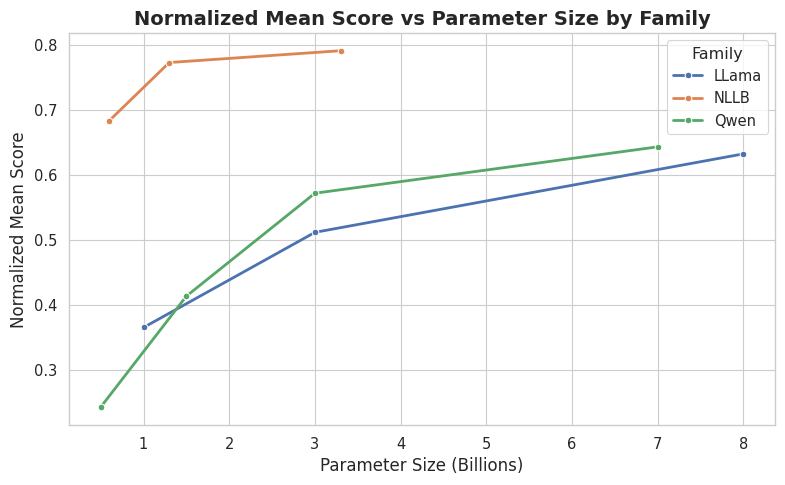
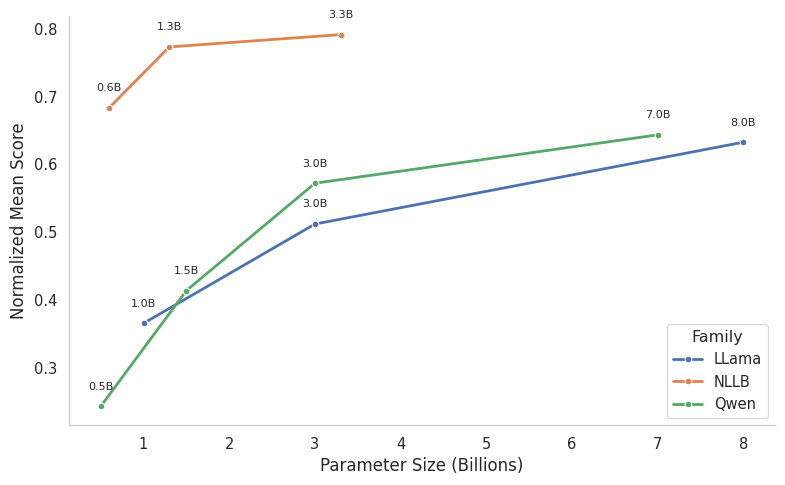
add sorting based on performance for topk graph and remove grid for family graph

diff --git a/plotting.py b/plotting.py
@@ -60,15 +60,45 @@ def create_plot_topk_results(df_long: pd.DataFrame, top_K: int = 5):
         ax = axes[i]
         df_metric = df_long.loc[df_long['Metric'] == metric]
         sns.set_theme(style="whitegrid", context="paper", font_scale=1.2)
-        # Calculate mean score per language
+
+        # Step 1: Top-K filtering
+        df_metric = df_metric.sort_values(['Language', 'Score'], ascending=[True, False])
+        df_metric = df_metric.groupby('Language', group_keys=False).head(top_K)
+
+        # Step 2: Determine order by average score
+        order = df_metric.groupby("Language")["Score"].mean().sort_values(ascending=False).index
+
+        # Step 3: Apply categorical ordering
+        print(order)
+        df_metric['Language'] = pd.Categorical(df_metric['Language'], categories=order, ordered=True)
+        df_metric = df_metric.sort_values('Language')
+
+        # Step 4: Compute and apply the same ordering to mean line
         mean_scores = df_metric.groupby('Language')['Score'].mean().reset_index()
         mean_scores['Model'] = 'Language Mean'
+        mean_scores['Language'] = pd.Categorical(mean_scores['Language'], categories=order, ordered=True)
+        mean_scores = mean_scores.sort_values('Language')
 
         # Plot the mean as a dotted black line
-        sns.lineplot(data=mean_scores, x='Language', y='Score', label='mean', ax=ax, linestyle='--', color='black', linewidth=1.2)
+        sns.lineplot(
+            data=mean_scores, 
+            x='Language', 
+            y='Score', 
+            label='mean', 
+            ax=ax, 
+            linestyle='--', 
+            color='black', 
+            linewidth=1.2)
         
-        df_metric = df_metric.sort_values(['Language', 'Score'], ascending=[True, False]).groupby('Language', group_keys=False).head(top_K)
-        sns.lineplot(data=df_metric, x='Language', y='Score', hue='Model', marker='o', ax=ax, linewidth=1.5)
+        sns.lineplot(
+            data=df_metric, 
+            x='Language', 
+            y='Score', 
+            hue='Model', 
+            marker='o', 
+            ax=ax, 
+            linewidth=1.5, 
+            )
         ax.set_xlabel("")
         ax.set_ylabel("")
         ax.set_title(metric, fontsize=13, weight='bold')
@@ -92,7 +122,7 @@ def create_plot_topk_results(df_long: pd.DataFrame, top_K: int = 5):
     # Shared x and y labels
     fig.supxlabel("Language", fontsize=12, y=0.05)
     fig.supylabel("Score", fontsize=12, x=0.01)
-    plt.suptitle(f"Top {top_K} Models Performance Across Languages", fontsize=16, weight='bold')
+    # plt.suptitle(f"Top {top_K} Models Performance Across Languages", fontsize=16, weight='bold')
 
     handles, labels = axes[0].get_legend_handles_labels()
     fig.legend(handles, labels, loc='upper center', ncol=4, bbox_to_anchor=(0.5, 1.15))
@@ -150,7 +180,7 @@ def create_plot_family_tradeoff(df_long):
     sns.set_theme(style="whitegrid", context="paper", font_scale=1.2)
 
     # Line plot by Family vs Param_Size 
-    sns.lineplot(
+    ax = sns.lineplot(
         data=df_grouped,
         x="Param_Size",
         y="Normalized_Mean_Score",
@@ -159,7 +189,21 @@ def create_plot_family_tradeoff(df_long):
         linewidth=2
     )
 
-    plt.title("Normalized Mean Score vs Parameter Size by Family", fontsize=14, weight='bold')
+    for i, row in df_grouped.iterrows():
+        ax.text(
+            row['Param_Size'],
+            row['Normalized_Mean_Score'] + 0.025,  # move label 
+            f"{row['Param_Size']}B",
+            fontsize=8,
+            ha='center',
+        )
+
+    # Remove top and right border
+    ax.spines['top'].set_visible(False)
+    ax.spines['right'].set_visible(False)
+
+    # plt.title("Normalized Mean Score vs Parameter Size by Family", fontsize=14, weight='bold')
+    plt.grid(False)
     plt.xlabel("Parameter Size (Billions)", fontsize=12)
     plt.ylabel("Normalized Mean Score", fontsize=12)
     plt.tight_layout()
